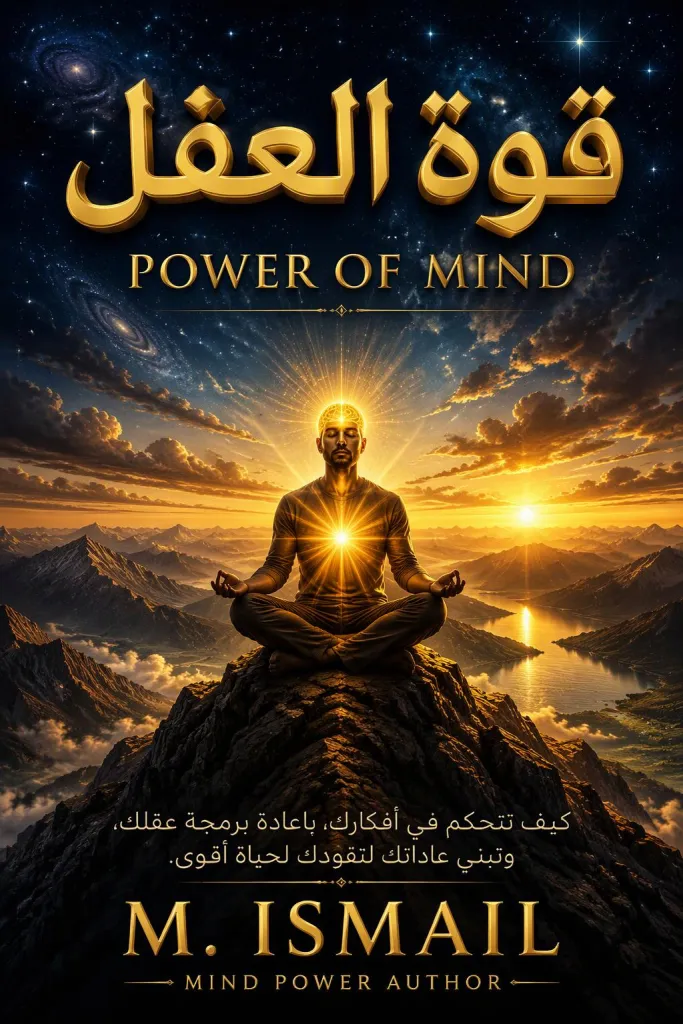
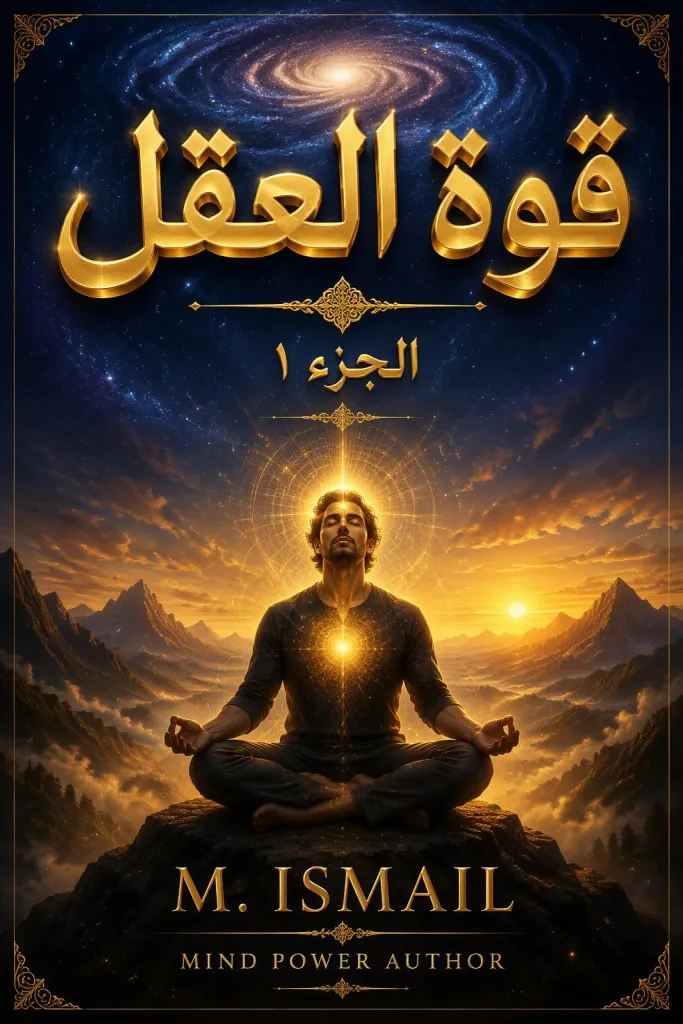
New covers for Part 1 (AR+EN) + use real image in store

diff --git a/store.html b/store.html
@@ -125,14 +125,7 @@ body{font-family:Cairo,sans-serif;background:#0F1E3D;color:#e8eef8;margin:0;padd
     <button class="buy-btn" onclick="selectProduct('ar')">اشترِ دلوقتي</button>
   </div>
   <div class="product-card" id="card-en">
-    <div class="cover-wrap">
-      <div class="cover-en">
-        <div class="brain">🧠</div>
-        <div class="t1">POWER<br>OF<br>MIND</div>
-        <div class="t2">MOHAMED ISMAIL ABDELAZIZ</div>
-        <div class="t3">A KHIDMATY AI PUBLICATION</div>
-      </div>
-    </div>
+    <div class="cover-wrap"><img class="cover-img" src="books/mind-power-en/cover.webp" alt="POWER OF MIND cover"></div>
     <h2>POWER OF MIND</h2>
     <span class="lang-tag">English</span>
     <p class="desc">The complete English edition — 96 pages with a full Contents index. The same mind-reclaiming journey, for readers everywhere.</p>
